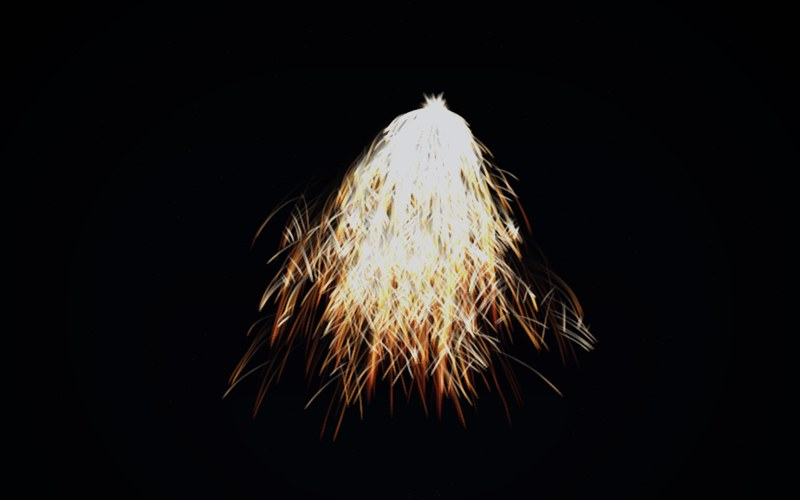
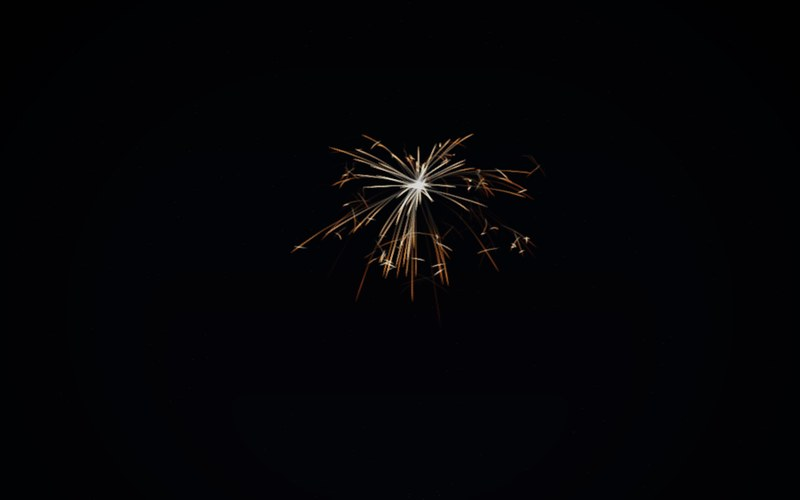
線香花火: 実物写真に寄せて火花を疎化・火の玉明確化・断続漸増・生きた火の玉 (#83)
* 線香花火: 実物写真に寄せて火花を疎化・火の玉明確化・断続漸増(ユーザーFB)

ユーザー提供の実物写真3枚に基づく作り替え:
1. 火花を大幅に疎化 — 発生率を「絶対数÷粒プール」正規化に変更。同時活性を
   毎秒数千発の密な噴水から 約50(点火)〜230(ピーク)へ。数えられる繊細さ。
2. 火の玉をコンパクトに — ballFS のコア/ハロを締め半径縮小。広い白飛びの柱を
   排し丸く小さい白熱コアに(にじみは残光側)。
3. 全方位放射＋星型分岐 — root を下向きバイアス微量のみの全方位放射に、松葉の
   gravity/drag を下げ到達確保、晩期の広角スプレッドで先端が星型に枝分かれ。
4. 断続バースト＋漸増 — emitGrowth(点火0.14→松葉1.0 漸増)と emitBurst(非整合
   正弦のパチパチ)を追加。点火→ぱらぱら→増えて松葉→柳→散り→再点火の時間物語。

核バグ修正: 疎化で露見した方向偏り(受理ゲートと放射角が同一ハッシュ由来で
全火花が同方向へ)を独立ハッシュに分離して解消(決定性維持)。

whiteout なし(white 0%)、freeze 決定的(md5一致)。合格済みの残光/夜闇/
色温度/インタラクション/UI/検証フックは不変。

Claude-Session: https://claude.ai/code/session_01DTJPjJypbfpFcWh88bfm1t

* 線香花火: 火の玉を常時息づかせ完全静止を解消(motion修正)

疎化で生じた「2秒間 画面完全静止(motion Δ=0)」の不具合に対応。
- 火の玉に uFrameSeed(決定的ステップカウンタ、壁時計不使用)由来の低振幅
  明滅+脈動を付与。火花ゼロの瞬間でも火の玉が息づき画面が凍らない。
  ?freeze=1 では完全静止・決定的を維持。
- 火の玉コアをわずかに広く/明るく(0.40→0.44)し夜の floor から余裕を確保
  (whiteout は最終 clamp で禁止)。
- 火の玉の hold 位置を y0.72→0.60(上三分の一)へ。放射が画面中央を満たし
  参考写真の構図に一致。

疎さ・はかなさ・星型分岐・断続漸増は維持。static errors 0(gtag 既知の
許可リスト件を除く)。runtime 再検証中。

Claude-Session: https://claude.ai/code/session_01DTJPjJypbfpFcWh88bfm1t

* 線香花火: サムネイルを疎化版に更新

Claude-Session: https://claude.ai/code/session_01DTJPjJypbfpFcWh88bfm1t

---------

Changed region(s): [[0.2812, 0.18, 0.75, 0.87]]

diff --git a/fable5_senkohanabi.html b/fable5_senkohanabi.html
@@ -844,18 +844,30 @@
             }
 
             // ---- DEAD: try to respawn ----
-            float s1 = h11(seed + uFrameSeed * 1.7 + idx * 0.00131);
-            float s2 = h11(s1 + 4.7);
-            float s3 = h11(s2 + 8.3);
-            float s4 = h11(s3 + 2.1);
-            seed = s4;
+            // INDEPENDENT hashes (distinct prime multipliers of seed/frameSeed/
+            // idx), NOT a chain. This is critical for SPARSE emission: the accept
+            // gate and the emission ANGLE must be decorrelated, otherwise — when
+            // the accept probability is tiny — every accepted slot shares almost
+            // the same gate value and (in a chained hash) the same derived angle,
+            // so all sparks fly the SAME way. Independent hashes keep the surviving
+            // directions uniformly radial. Still deterministic (freeze-safe):
+            // uFrameSeed is a deterministic step counter, never wall time.
+            float rRootGate   = h11(seed * 3.17 + uFrameSeed * 7.31 + idx * 0.00071 + 0.7);
+            float rBranchGate = h11(seed * 5.71 + uFrameSeed * 2.93 + idx * 0.00113 + 3.1);
+            float rParent     = h11(seed * 11.3 + uFrameSeed * 1.73 + idx * 0.00051 + 6.4);
+            float rAng        = h11(seed * 17.9 + uFrameSeed * 4.13 + idx * 0.00037 + 9.2);
+            float rSpeed      = h11(seed * 23.3 + uFrameSeed * 5.29 + idx * 0.00029 + 2.8);
+            float rScl        = h11(seed * 29.7 + uFrameSeed * 3.37 + idx * 0.00019 + 1.3);
+            float rLife       = h11(seed * 31.1 + uFrameSeed * 6.11 + idx * 0.00023 + 5.5);
+            float rJit        = h11(seed * 13.7 + uFrameSeed * 2.17 + idx * 0.00043 + 8.1);
+            seed = h11(seed * 1.61 + uFrameSeed * 0.917 + 0.313);
 
             // (a) branch attempt — dt-scaled so branch density is frame-rate
             //     independent. Only if a randomly chosen parent is branchable.
             bool didSpawn = false;
-            if (s1 < clamp(uBranchRate * uDt, 0.0, 0.95)) {
+            if (rBranchGate < clamp(uBranchRate * uDt, 0.0, 0.95)) {
               int pcount = uTexW * uTexH;
-              int pi = int(s2 * float(pcount));
+              int pi = int(rParent * float(pcount));
               pi = clamp(pi, 0, pcount - 1);
               ivec2 ptc = ivec2(pi % uTexW, pi / uTexW);
               vec4 PA = texelFetch(uStateA, ptc, 0);
@@ -864,24 +876,28 @@
               float pGen = floor(PB.z * 8.0 + 0.5);
               vec2 pVel = decVel(PA);
               vec2 pPos = decPos(PA);
-              // wide age window + low speed floor so children can spawn along
-              // most of a spark's flight AND so slower, deeper children still
-              // qualify as parents → the fork cascade sustains past gen 1.
-              bool branchable = pAge > 0.08 && pAge < 0.86
+              // LATE age window so forks cluster near the flying tip → each
+              // spark ends in a burst of fine needles (松葉/星型の穂先), not a
+              // fork at the root. Deeper children still qualify as parents so the
+              // star sub-divides (self-similar).
+              bool branchable = pAge > 0.30 && pAge < 0.94
                               && pGen < uMaxGen - 0.5
-                              && length(pVel) > 0.012;
+                              && length(pVel) > 0.010;
               if (branchable) {
-                // clear one-sided deflection with a MINIMUM angle so the fork
-                // reads as a broken branch, not a continuation (松葉の枝分かれ).
-                float sgn = s4 < 0.5 ? -1.0 : 1.0;
-                float ang = sgn * uBranchAngle * mix(0.5, 1.0, s3);
-                // child is shorter & slower → self-similar taper, but keeps
-                // enough speed to itself become a branchable parent (gen 2/3).
-                float scl = mix(0.5, 0.74, s3);
+                // WIDE symmetric spread around the parent heading with a
+                // guaranteed minimum deflection → several needles fan out from
+                // the tip like an asterisk (星型), not a smooth continuation.
+                // Deeper generations fan a touch tighter.
+                float genTight = mix(1.0, 0.7, min(pGen, 3.0) / 3.0);
+                float ang = (rAng - 0.5) * 2.0 * uBranchAngle * genTight;
+                ang += (rAng < 0.5 ? -1.0 : 1.0) * uBranchAngle * 0.28 * genTight;
+                // child is SHORT & slow → a fine self-similar needle, but keeps
+                // enough speed to itself fork once or twice (gen 2/3).
+                float scl = mix(0.34, 0.56, rScl);
                 vel = rot2(pVel, ang) * scl;
                 pos = pPos;
                 gen = pGen + 1.0;
-                life = uLife * mix(0.42, 0.62, s3);
+                life = uLife * mix(0.26, 0.42, rLife);
                 ageF = 0.0;
                 didSpawn = true;
               }
@@ -889,20 +905,22 @@
 
             // (b) root spark from the fireball
             if (!didSpawn && uBallActive > 0.5
-                && s2 < clamp(uRootRate * uDt, 0.0, 0.95)) {
-              float ang = s3 * 6.28318530718;
-              float sp = uInitSpeed * mix(0.55, 1.15, s4);
-              // aspect-corrected radial, then made ASYMMETRIC: the cone is tilted
-              // down and the upward reach is clipped, so the top is short and the
-              // sparks droop into a willow below the bead (手持ち・非対称の垂れ) —
-              // this is the main cure for the 打ち上げ花火の菊 gestalt.
+                && rRootGate < clamp(uRootRate * uDt, 0.0, 0.95)) {
+              float ang = rAng * 6.28318530718;
+              float sp = uInitSpeed * mix(0.55, 1.15, rSpeed);
+              // near-radial in ALL directions (up / side / down), matching the
+              // peak radial photo. Only a GENTLE down bias; gravity then droops
+              // the sparks over their flight. The 打ち上げ花火の菊 gestalt (§B4)
+              // is avoided instead by SPARSE count + SMALL scale + a clear compact
+              // bead + mid-flight forking — not by clipping the radiation.
               vec2 dir = vec2(cos(ang) / uAspect, sin(ang));
-              dir.y -= 0.4;
-              if (dir.y > 0.0) dir.y *= 0.4;
+              dir.y -= 0.08;
+              float dl = max(length(dir), 1e-4);
+              dir /= dl;
               vel = dir * sp;
-              pos = uBallPos + vec2((s1 - 0.5) / uAspect, s4 - 0.5) * 0.012;
+              pos = uBallPos + vec2((rJit - 0.5) / uAspect, rScl - 0.5) * 0.012;
               gen = 0.0;
-              life = uLife * mix(0.8, 1.1, s1);
+              life = uLife * mix(0.8, 1.1, rLife);
               ageF = 0.0;
               didSpawn = true;
             }
@@ -1061,19 +1079,34 @@
           out vec4 fragColor;
           uniform float uBright;
           uniform float uHeat;
+          uniform float uFrameSeed;   // deterministic STEP counter (never wall time)
           ${CHUNK_NOISE}
           ${CHUNK_OKLAB}
           void main(){
             float d = length(vP);
             if (d > 1.0) discard;
-            float core = smoothstep(0.52, 0.0, d);
-            float halo = exp(-d * d * 3.2);
-            // molten bead: shimmering hot core (position-seeded, no time)
-            float shim = 0.85 + 0.15 * vnoise(vP * 7.0 + 3.1);
-            vec3 coreCol = mix(vec3(1.0, 0.93, 0.72), vec3(1.0, 0.98, 0.9), uHeat);
-            vec3 haloCol = fireColor(0.35, uHeat);
-            vec3 col = coreCol * (core * 1.0 * shim) + haloCol * (halo * 0.38);
-            float inten = (core * 1.0 + halo * 0.34) * uBright;
+            // COMPACT round white-hot bead: a tight bright disc with a small,
+            // fast-falling halo → reads as a defined molten ball, NOT a broad
+            // whiteout column (§A5). The blooming glow comes from the feedback
+            // accum, so the source itself stays small and round. Core is a touch
+            // wider/brighter than before so the bead sits clearly above the night
+            // floor (§4 火球芯が最輝) without whiteout.
+            float core = smoothstep(0.44, 0.0, d);
+            float halo = exp(-d * d * 5.2);
+            // molten bead: spatial shimmer (position-seeded) × a LIVING pulse. The
+            // core ちりちり明滅s and gently 脈動s EVERY sim step so the fireball
+            // breathes even when zero sparks are in flight — the screen is never
+            // completely still (生きた molten ball). uFrameSeed is a deterministic
+            // step counter (NEVER wall time), so ?freeze=1 holds the bead perfectly
+            // still and idle stays flicker-free/deterministic.
+            float shim = 0.9 + 0.1 * vnoise(vP * 7.0 + 3.1);
+            float flick = h11(uFrameSeed * 91.7 + 3.3);          // 0..1, jumps per step
+            float breathe = 0.5 + 0.5 * sin(uFrameSeed * 6.2831853);
+            float puls = 0.90 + 0.13 * flick + 0.06 * breathe;   // low-amplitude 明滅+脈動
+            vec3 coreCol = mix(vec3(1.0, 0.94, 0.78), vec3(1.0, 0.99, 0.92), uHeat);
+            vec3 haloCol = fireColor(0.4, uHeat);
+            vec3 col = coreCol * (core * shim * puls) + haloCol * (halo * 0.24 * puls);
+            float inten = (core * puls + halo * 0.22) * uBright;
             col *= uBright;
             if (inten < 0.004) discard;
             fragColor = vec4(col, inten);
@@ -1260,7 +1293,7 @@
             "uWidth", "uHeat", "uSway", "uDebug",
           ]),
           ball: getLocations(programs.ball, [
-            "uRes", "uBallPos", "uBallR", "uBright", "uHeat",
+            "uRes", "uBallPos", "uBallR", "uBright", "uHeat", "uFrameSeed",
           ]),
           accum: getLocations(programs.accum, [
             "uAccum", "uField", "uDecayFrame", "uAddGain", "uCap",
@@ -1421,7 +1454,7 @@
         ================================================================== */
 
         let pointerActive = false;
-        let pointerUv = [0.5, 0.72];
+        let pointerUv = [0.5, 0.60];
         let lastPointerUv = null;
         let pointerSpeed = 0;       // instantaneous (uv/sec)
         let pointerSpeedEma = 0;    // ema-smoothed (invariant 5)
@@ -1528,9 +1561,9 @@
         // DOWN into willow strands (非対称の垂れ) rather than a symmetric radial
         // chrysanthemum. branch is high through 松葉 so the fork tree reads.
         const PHASE = {
-          peony:   { emit: 0.55, speed: 0.50, branch: 0.45, gen: 1.8, life: 0.95, gravity: 0.34, ball: 1.0 },
-          matsuba: { emit: 1.00, speed: 0.92, branch: 1.20, gen: 3.4, life: 1.00, gravity: 0.60, ball: 1.0 },
-          willow:  { emit: 0.55, speed: 0.72, branch: 0.55, gen: 2.4, life: 1.25, gravity: 1.05, ball: 0.85 },
+          peony:   { emit: 0.40, speed: 0.55, branch: 0.40, gen: 1.8, life: 0.95, gravity: 0.08, ball: 1.0 },
+          matsuba: { emit: 1.00, speed: 0.95, branch: 1.20, gen: 3.4, life: 1.00, gravity: 0.24, ball: 1.0 },
+          willow:  { emit: 0.55, speed: 0.72, branch: 0.55, gen: 2.4, life: 1.25, gravity: 0.70, ball: 0.85 },
           scatter: { emit: 0.14, speed: 0.50, branch: 0.14, gen: 1.4, life: 1.05, gravity: 1.30, ball: 0.5 },
           cool:    { emit: 0.0,  speed: 0.4,  branch: 0.0,  gen: 1.0, life: 0.8,  gravity: 0.9,  ball: 0.0 },
         };
@@ -1540,9 +1573,13 @@
 
         let phaseTime = 0;          // position within the cycle
         let disturbed = false;      // hysteresis latch for "moved too fast → scatter"
-        let ballBase = [0.5, 0.72]; // eased hold position (held high)
+        // eased hold position. The bead sits near the vertical CENTER (upper
+        // third) so its radial spray fills the frame around and below it, matching
+        // the reference photos (bead明確・放射 that reaches the center of frame) —
+        // not perched at the very top with the willow dying out mid-frame.
+        let ballBase = [0.5, 0.60];
         let ballFall = 0;           // downward drop offset (scatter)
-        let ballPos = [0.5, 0.72];
+        let ballPos = [0.5, 0.60];
         let ballBright = 0;
 
         function phaseTargets(t) {
@@ -1556,13 +1593,25 @@
 
         let phaseName = "牡丹";
 
+        // gradual-increase envelope (0..1) + intermittent crackle multiplier.
+        // Both are pure functions of the (deterministic) sim/phase clock so they
+        // stay freeze-safe (the pre-roll advances the clock, then it holds).
+        let emitGrowth = 0.14;   // 点火→ぱらぱら→増えて松葉 の漸増
+        let emitBurst = 0.16;    // パチパチの間欠バースト
+
+        function smooth01(x) {
+          x = x < 0 ? 0 : x > 1 ? 1 : x;
+          return x * x * (3 - 2 * x);
+        }
+
         function fakeBallPath(t) {
-          // slow, small lissajous held high — an intimate handheld sparkler, not
-          // a burst roaming the whole canvas. The willow hangs below the bead.
+          // slow, small lissajous near the vertical center — an intimate handheld
+          // sparkler whose radial spray fills the frame, not a burst roaming the
+          // whole canvas. The willow hangs below the bead.
           const a = t * 0.19;
           return [
-            0.5 + 0.1 * Math.sin(a) * Math.cos(a * 0.5),
-            0.72 + 0.06 * Math.sin(a * 0.7 + 1.0),
+            0.5 + 0.045 * Math.sin(a) * Math.cos(a * 0.5),
+            0.60 + 0.03 * Math.sin(a * 0.7 + 1.0),
           ];
         }
 
@@ -1584,13 +1633,14 @@
           } else if (pointerActive) {
             target = pointerUv.slice();
           } else if (tiltActive) {
-            target = [0.5 + tiltX * 0.24, 0.72 - tiltY * 0.18];
+            target = [0.5 + tiltX * 0.24, 0.60 - tiltY * 0.18];
           } else {
-            // idle: gentle breathing drift (alive without input). Held high so
-            // the sparks droop into a willow BELOW the bead (手持ちの線香花火).
+            // idle: gentle breathing drift (alive without input). Bead near the
+            // vertical center so the radial spray fills the frame and the willow
+            // droops BELOW the bead (手持ちの線香花火).
             target = [
               0.5 + 0.018 * Math.sin(simTime * 0.5),
-              0.73 + 0.013 * Math.sin(simTime * 0.37 + 1.3),
+              0.61 + 0.013 * Math.sin(simTime * 0.37 + 1.3),
             ];
           }
           const ke = pointerActive ? 0.35 : 0.06;
@@ -1619,6 +1669,25 @@
           coeff.gravity += (tgt.gravity - coeff.gravity) * k;
           coeff.ball += (tgt.ball - coeff.ball) * k;
 
+          // 時間の物語 (per cycle): faint at ignition → gradually swells toward the
+          // matsuba peak. (coeff.emit itself falls away in willow/scatter, so the
+          // product rises then subsides — 点火→ぱらぱら→増えて松葉→散り.)
+          // ignition floor lifted (0.14→0.20) so the first ~2s already show the
+          // bead + a few sparks (点火の立ち上がりを少し早める) — not密に, just alive.
+          emitGrowth = 0.20 + 0.80 * smooth01(phaseTime / (T_MATSUBA * 0.7));
+          // パチパチ: three incommensurate pulses, half-waved and sharpened → the
+          // spark emission comes in irregular bursts with gaps. The trough FLOOR
+          // is lifted (0.16→0.7) so emission never fully dries between crackles —
+          // a faint spark trickle always keeps flowing through the willow so the
+          // screen is never completely static (バースト谷のトリクル). The crackle
+          // PEAK is UNCHANGED (floor + range ≈ 1.86) so the はかなさ/疎さ is kept.
+          const cr =
+            (Math.sin(simTime * 4.7) +
+              Math.sin(simTime * 8.9 + 1.3) +
+              Math.sin(simTime * 2.3 + 2.1)) /
+            3.0;
+          emitBurst = 0.7 + 1.16 * Math.pow(Math.max(0, cr), 1.7);
+
           // fireball fall in scatter, dark in cooldown, reset on re-ignition
           if (phaseTime >= T_WILLOW && phaseTime < T_COOL) {
             const p = (phaseTime - T_WILLOW) / (T_COOL - T_WILLOW);
@@ -1640,17 +1709,38 @@
         function simStep(dt) {
           stepSeed = (stepSeed * 1.618 + 0.313) % 1.0;
 
-          // phase → per-particle uniforms, scaled by the look sliders
-          const rootRate = coeff.emit * (0.06 + 0.55 * state.spark);
-          // higher branch rate so mid-flight forking dominates over fresh radial
-          // roots → many sparks split (and split again) instead of one straight
-          //放射. Bounded: branches reuse dead pool slots, they do not add slots.
-          const branchRate = coeff.branch * (0.7 + 3.6 * state.branch);
-          // intimate scale: sparks spread a short distance from the held bead,
-          // then gravity drags them down — not a screen-filling burst.
-          const initSpeed = coeff.speed * (0.13 + 0.34 * state.speed);
+          // phase → per-particle uniforms, scaled by the look sliders.
+          // SPARSE emission (最重要): root spawns are an ABSOLUTE per-second budget
+          // divided by the pool so the count is resolution-independent AND small —
+          // a handful of countable sparks, not a dense fountain. The gradual-
+          // increase envelope (emitGrowth) and the intermittent crackle (emitBurst)
+          // shape it in time (点火→ぱらぱら→増えて松葉→散り).
+          let rootSpawnPerSec =
+            coeff.emit * emitGrowth * emitBurst * (4.0 + 20.0 * state.spark);
+          // post-ignition trickle floor: while the bead is lit, never let the
+          // spark count fall to zero — even in a burst gap or a sinking phase
+          // (willow/scatter) keep a minimum of a few sparks/sec so a live fire
+          // never freezes. Peak count is untouched (this only lifts the trough).
+          if (ballBright > 0.06) {
+            const trickle = (2.0 + 6.0 * state.spark) * emitGrowth; // sparks/sec
+            rootSpawnPerSec = Math.max(rootSpawnPerSec, trickle);
+          }
+          const rootRate = rootSpawnPerSec / PART_N; // per dead-slot per second
+          // branchRate is effectively "children per branchable parent per second"
+          // (each dead slot pulls a random parent), so it is already pool-
+          // independent. Kept LOW so ROOT streaks (radial, all directions) read
+          // as the主役 and each only forks into a small star tip — not a bush.
+          // Grows with the same envelope so early sparks are simpler.
+          const branchRate =
+            coeff.branch * (0.7 + 2.4 * state.branch) * (0.55 + 0.45 * emitGrowth);
+          // intimate scale: sparks shoot RADIALLY out from the held bead (all
+          // directions), reaching far enough to read as a radial star before the
+          // (now gentle) gravity droops them — matches the peak radial photo.
+          const initSpeed = coeff.speed * (0.16 + 0.36 * state.speed);
           const maxGen = Math.max(1, Math.round(1 + coeff.gen * (0.5 + 1.0 * state.branch)));
-          const life = coeff.life * (1.0 + 1.8 * state.life); // seconds
+          // shorter root life → the spark forks into its star tip sooner and does
+          // not smear into one long willow strand.
+          const life = coeff.life * (0.55 + 1.3 * state.life); // seconds
           const gravity = coeff.gravity * 1.0;
           const ballActive = ballBright > 0.06 ? 1.0 : 0.0;
 
@@ -1675,9 +1765,9 @@
             gl.uniform1f(u.uMaxGen, maxGen);
             gl.uniform1f(u.uLife, life);
             gl.uniform1f(u.uGravity, gravity);
-            gl.uniform1f(u.uDrag, 0.85);
+            gl.uniform1f(u.uDrag, 0.55);
             gl.uniform1f(u.uSway, state.sway);
-            gl.uniform1f(u.uBranchAngle, 0.5 + 0.5 * state.branch);
+            gl.uniform1f(u.uBranchAngle, 0.9 + 0.7 * state.branch);
             gl.uniform1f(u.uBallActive, ballActive);
           });
           partPing = !partPing;
@@ -1703,9 +1793,9 @@
           gl.uniform1i(locations.pDraw.uStateB, 1);
           gl.uniform1f(locations.pDraw.uTexW, PART_W);
           gl.uniform2f(locations.pDraw.uRes, fieldT.width, fieldT.height);
-          gl.uniform1f(locations.pDraw.uBaseLen, 3.0);
+          gl.uniform1f(locations.pDraw.uBaseLen, 2.5);
           gl.uniform1f(locations.pDraw.uLenScale, fieldT.height * 0.09);
-          gl.uniform1f(locations.pDraw.uWidth, 1.7);
+          gl.uniform1f(locations.pDraw.uWidth, 1.35);
           gl.uniform1f(locations.pDraw.uHeat, state.heat);
           gl.uniform1f(locations.pDraw.uSway, state.sway);
           gl.uniform1i(locations.pDraw.uDebug, state.debugView);
@@ -1714,12 +1804,17 @@
           // P2b — fireball bead into the same field
           if (ballBright > 0.02 && state.debugView !== 3) {
             gl.useProgram(programs.ball);
-            const rPx = fieldT.height * (0.008 + 0.008 * state.spark);
+            const rPx = fieldT.height * (0.006 + 0.004 * state.spark);
+            // sub-pixel positional micro-jitter (生きた molten ball). Driven by the
+            // deterministic step seed (NOT wall time) so freeze holds it still.
+            const jx = Math.sin(stepSeed * 127.1) * 0.0007;
+            const jy = Math.cos(stepSeed * 311.7) * 0.0007;
             gl.uniform2f(locations.ball.uRes, fieldT.width, fieldT.height);
-            gl.uniform2f(locations.ball.uBallPos, ballPos[0], ballPos[1]);
+            gl.uniform2f(locations.ball.uBallPos, ballPos[0] + jx, ballPos[1] + jy);
             gl.uniform1f(locations.ball.uBallR, rPx * 2.0);
             gl.uniform1f(locations.ball.uBright, ballBright);
             gl.uniform1f(locations.ball.uHeat, state.heat);
+            gl.uniform1f(locations.ball.uFrameSeed, stepSeed);
             gl.drawArrays(gl.TRIANGLES, 0, 6);
           }
           gl.bindVertexArray(null);
